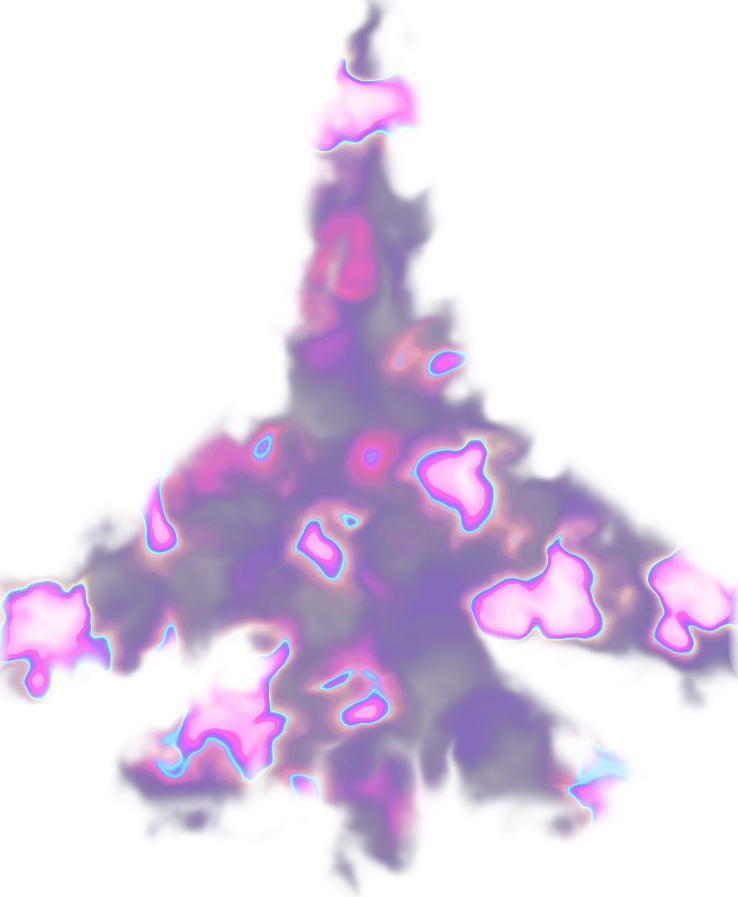
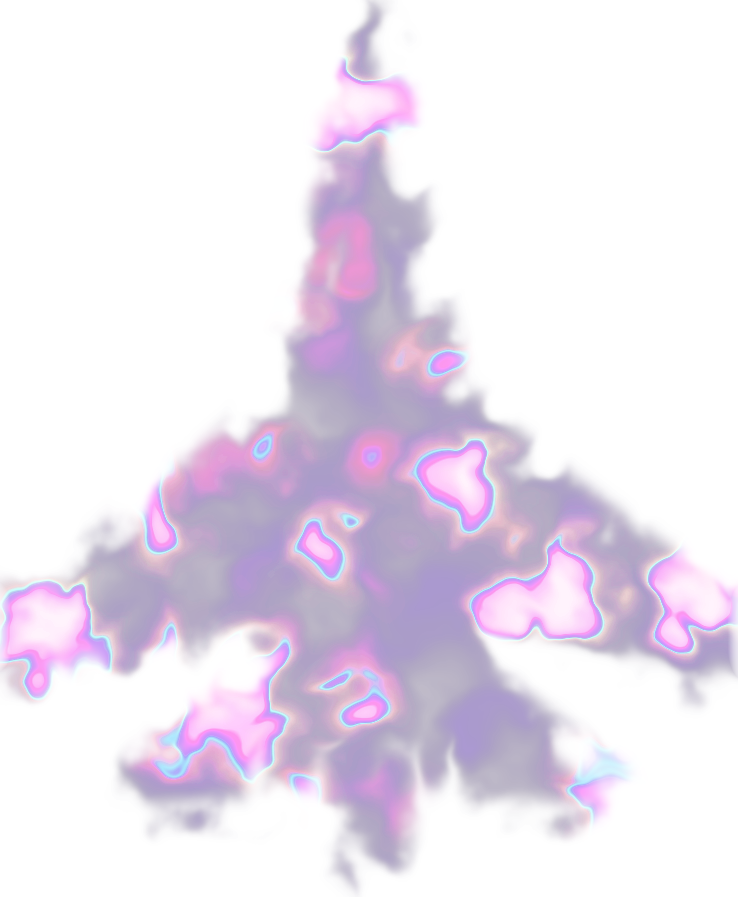
Changed enemy spawning
~ also readded enchant glow (reduced)

Changed region(s): [[0.0, 0.0, 0.9973, 0.9677]]

diff --git a/Src/Objects/enemy.js b/Src/Objects/enemy.js
@@ -50,7 +50,8 @@ class Enemy extends Ship {
       if (bullet && bullet.owner.name == "ship") {
         this.slainByPlayer = true;
         hud.addScore(25);
-        this.grantEffect(bullet.owner);
+        if (bullet && bullet.owner)
+          this.grantEffect(bullet.owner);
       }
     }
   }
@@ -200,16 +201,29 @@ class BlackEnemy extends Enemy {
   constructor(x, y, vx, vy) {
     super(x, y, vx, vy);
     this.type = "black";
+    this.bulletType = "explosive";
     this.sprite = blackEnemySprite;
+    this.health = 25;
+
+    // Boost attributes
     this.oldExaustCol = {
       min: { r: 0, g: 0, b: 0, a: 100 },
       add: { r: 255, g: 255, b: 255, a: 0 }
     };
     this.exaustCol = this.oldExaustCol;
+
+    // Bullet attributes
     this.bCol = { r:100, g:0, b:0 };
     this.damage = 1.5;
     this.bImpactForce = 3;
     this.exaustDelay = 20;
+  }
+
+  grantEffect(object) {
+    super.grantEffect(object);
+    object.applyEffect(ExplosiveRounds, {
+      duration: 20
+    })
   }
 
   drawBoost(ctx) {
@@ -406,12 +420,32 @@ function drawEnemies(ctx) {
 }
 
 function randomEnemyType() {
-  let rand = Math.random();
-  if (rand < 0.02) return "black";
-  if (rand < 0.05) return "mega";
-  else if (rand < 0.15) return "homing";
-  else if (rand < 0.25) return "speed";
-  else return "normal";
+  const typeChances = {
+    normal: 75,
+    speed: 10,
+    homing: 10,
+    mega: 5,
+    black: 5
+  };
+
+  // Calculate the total sum of all chances
+  let totalChance = Object.values(typeChances).reduce((sum, chance) => sum + chance, 0);
+
+  // Scale rand between 0 and totalChance
+  let rand = Math.random() * totalChance;
+  let cumulativeChance = 0;
+  let type;
+
+  // Iterate through each type and add up the chances
+  for (let key in typeChances) {
+    cumulativeChance += typeChances[key];
+    if (rand <= cumulativeChance) {
+      type = key;
+      break;
+    }
+  }
+
+  return type; // Return the randomly selected type
 }
 
 /*

diff --git a/Src/Objects/ship.js b/Src/Objects/ship.js
@@ -496,8 +496,8 @@ class Ship extends GravityObject {
     
     ctx.image(this.sprite, 0, 0, this.s * SIZE, this.s * aspect * SIZE);
 
-    // if (this.effects.length > 0)
-    //   ctx.image(jetEnchantmentSprite, 0, 0, this.s * SIZE, this.s * aspect * SIZE);
+    if (this.effects.length > 0)
+      ctx.image(jetEnchantmentSprite, 0, 0, this.s * SIZE, this.s * aspect * SIZE);
 
     if (this.alpha != 255)
       ctx.noTint();

diff --git a/Src/Objects/asteroid.js b/Src/Objects/asteroid.js
@@ -382,8 +382,8 @@ function randomAsteroid() {
     normal: 70,
     fuel: 10,
     ammo: 10,
-    health: 10,
-    speed: 5,
+    health: 5,
+    speed: 3,
     explosive: 2,
   };
 
